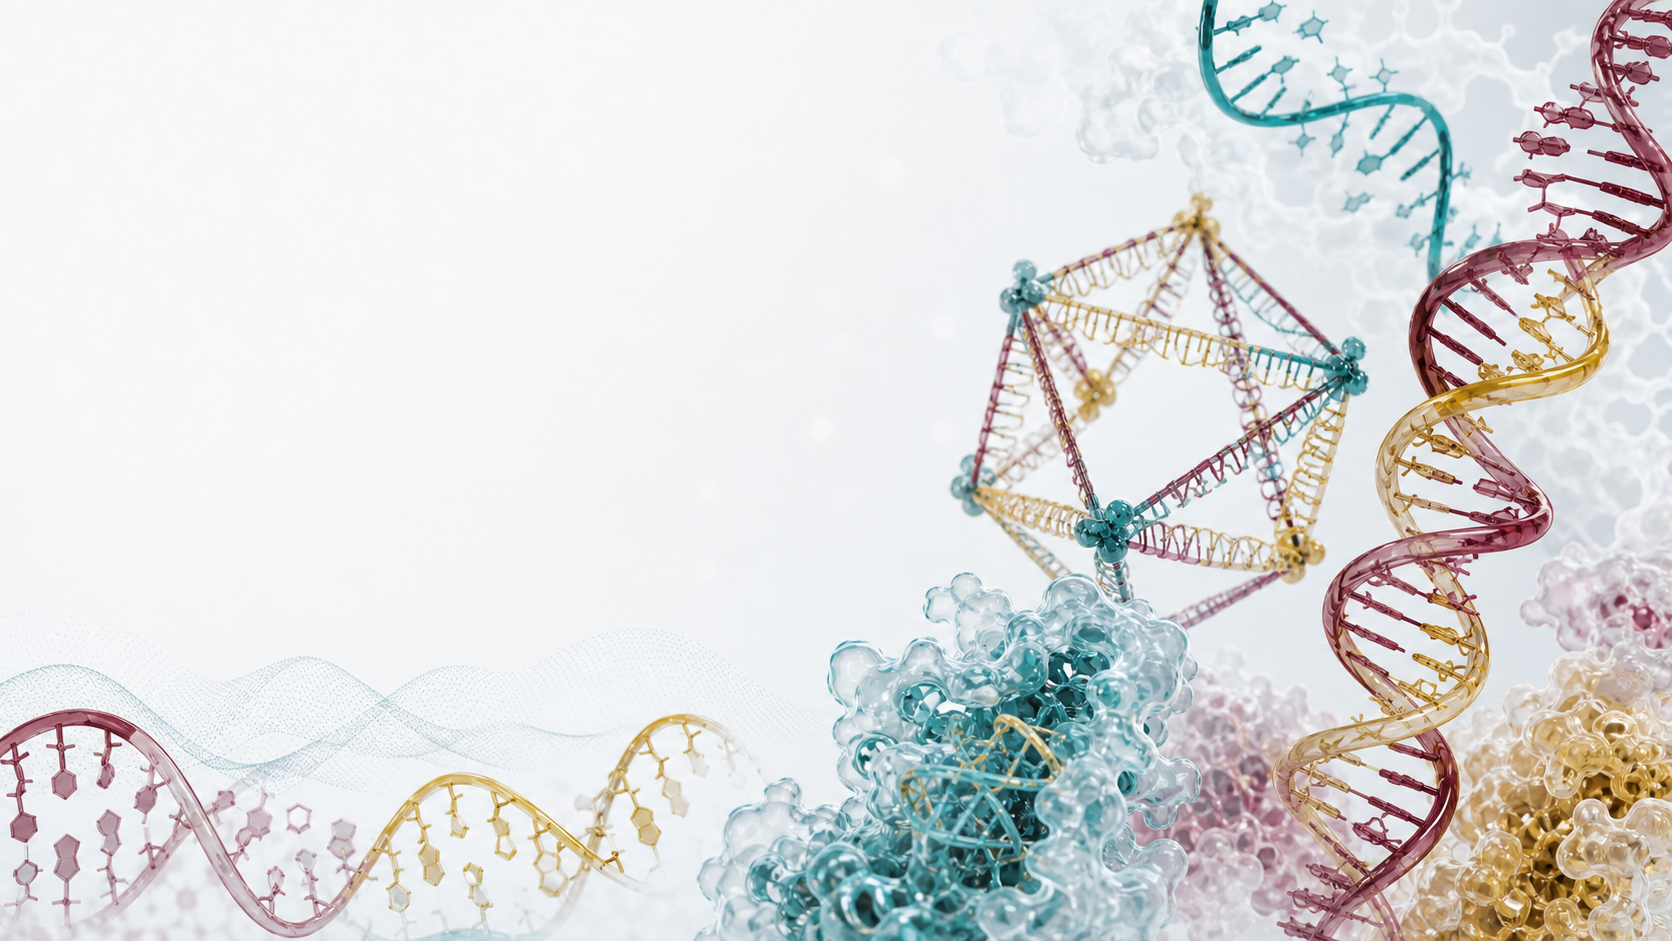
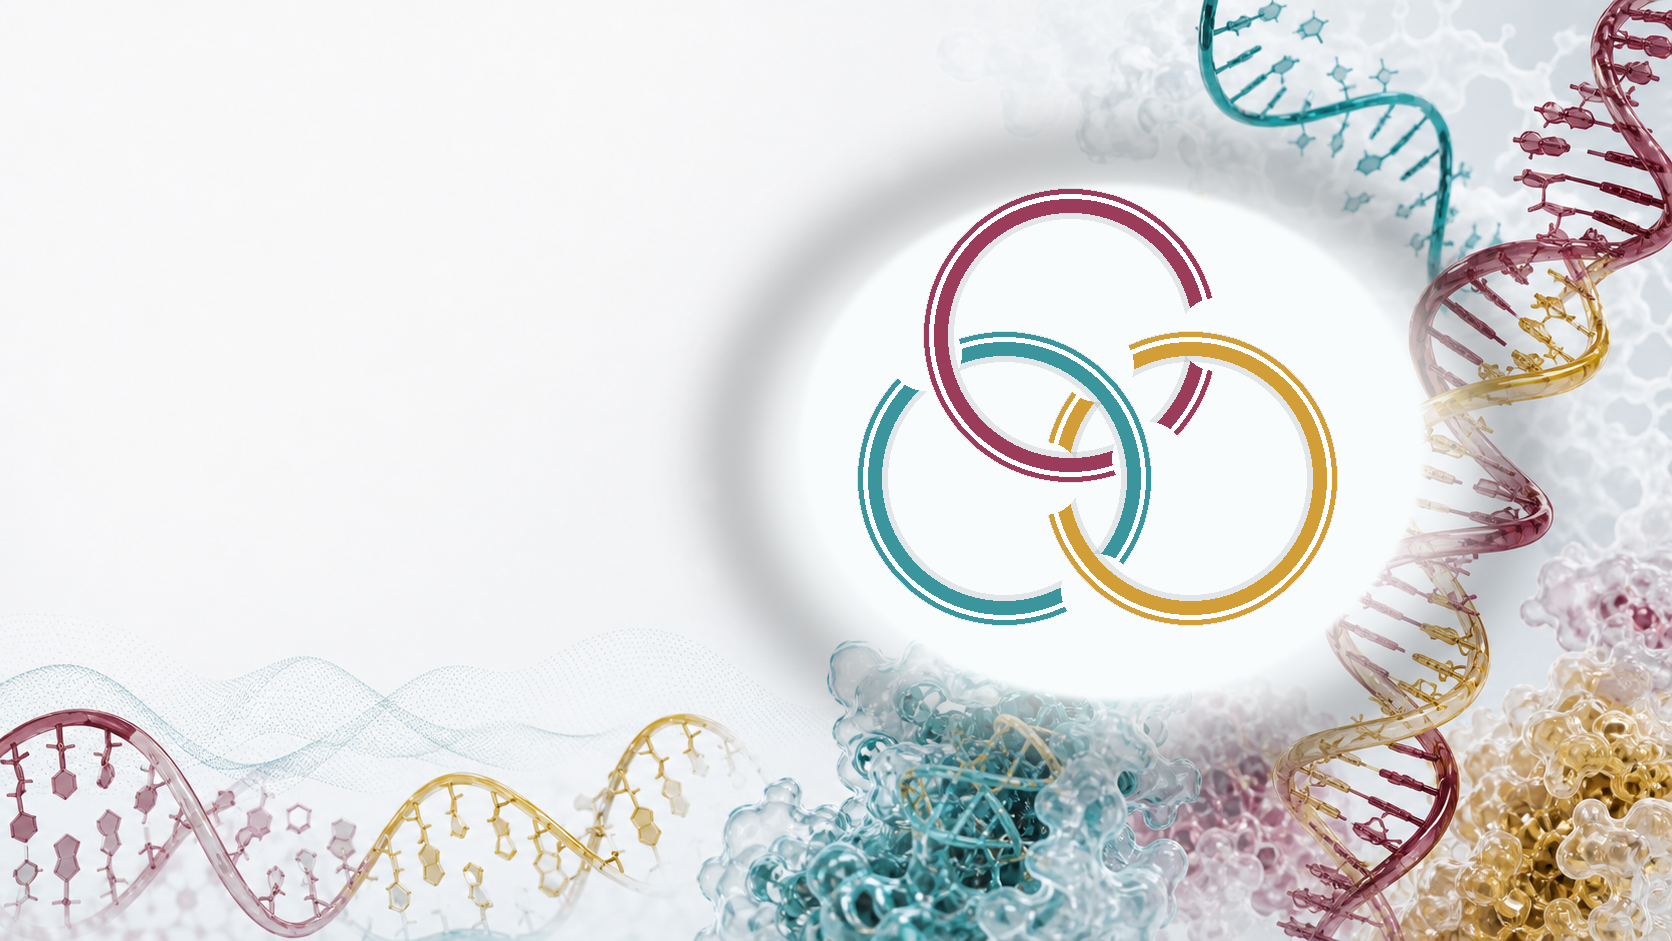
Add news page and Borromean rings hero

Changed region(s): [[0.4043, 0.1233, 0.933, 0.8629]]

diff --git a/styles.css b/styles.css
@@ -122,7 +122,7 @@ a {
 .nav-links {
   display: flex;
   align-items: center;
-  gap: 1.35rem;
+  gap: 1.05rem;
   color: var(--muted);
   font-size: 0.95rem;
 }
@@ -362,7 +362,7 @@ h3 {
 }
 
 .link-grid {
-  grid-template-columns: repeat(4, 1fr);
+  grid-template-columns: repeat(auto-fit, minmax(210px, 1fr));
 }
 
 .research-card,
@@ -551,11 +551,42 @@ h3 {
   padding: 1.25rem;
 }
 
-.news-grid time {
+.news-list {
+  width: min(900px, calc(100% - 2rem));
+  margin: 0 auto;
+  display: grid;
+  gap: 1rem;
+}
+
+.news-list article {
+  display: grid;
+  grid-template-columns: 150px 1fr;
+  gap: 1.4rem;
+  padding: 1.25rem;
+  border: 1px solid var(--line);
+  border-radius: var(--radius);
+  background: #fff;
+}
+
+.news-grid time,
+.news-list time {
   display: inline-block;
   margin-bottom: 0.8rem;
   color: var(--blue);
   font-weight: 900;
+}
+
+.news-list h3 {
+  margin-bottom: 0.35rem;
+}
+
+.news-list p {
+  margin-bottom: 0;
+  color: var(--muted);
+}
+
+.section-link {
+  margin-top: 1.5rem;
 }
 
 .course-list {
@@ -736,7 +767,8 @@ h3 {
   .pi-panel,
   .people-list li,
   .publication-list article,
-  .contact-card p {
+  .contact-card p,
+  .news-list article {
     grid-template-columns: 1fr;
   }
 

diff --git a/index.html b/index.html
@@ -36,6 +36,7 @@
           <a href="research.html">Research</a>
           <a href="people.html">People</a>
           <a href="publications.html">Publications</a>
+          <a href="news.html">News</a>
           <a href="opportunities.html">Join</a>
           <a href="contact.html">Contact</a>
         </div>
@@ -108,8 +109,13 @@
             <h3>Publications</h3>
             <p>Selected papers in RNA structure and nucleic acid nanotechnology.</p>
           </a>
-          <a class="summary-card" href="opportunities.html">
+          <a class="summary-card" href="news.html">
             <span class="card-index">04</span>
+            <h3>News</h3>
+            <p>Recent lab updates, people news, publications, and placeholders for future announcements.</p>
+          </a>
+          <a class="summary-card" href="opportunities.html">
+            <span class="card-index">05</span>
             <h3>Join</h3>
             <p>Openings and guidance for postdocs, graduate students, and undergraduates.</p>
           </a>
@@ -119,25 +125,26 @@
       <section class="section section-pad tinted">
         <div class="section-heading">
           <p class="eyebrow">Recent updates</p>
-          <h2>Lab notes</h2>
+          <h2>Latest news</h2>
         </div>
         <div class="news-grid">
           <article>
-            <time datetime="2026">2026</time>
+            <time datetime="2026-06">June 2026</time>
             <h3>Placeholder: lab milestone or award</h3>
             <p>Add a short update about publications, funding, student awards, or conference presentations.</p>
           </article>
           <article>
-            <time datetime="2025">2025</time>
+            <time datetime="2025-08">August 2025</time>
             <h3>New students join the lab</h3>
             <p>The group continues to grow with new graduate and undergraduate researchers.</p>
           </article>
           <article>
-            <time datetime="2024">2024</time>
+            <time datetime="2024-08">August 2024</time>
             <h3>Postdoctoral researchers join the team</h3>
             <p>Cong Li and Zhishang Li join the Liu Lab as postdoctoral researchers.</p>
           </article>
         </div>
+        <a class="text-link section-link" href="news.html">View all news</a>
       </section>
 
       <section class="contact-band section-pad">

diff --git a/contact.html b/contact.html
@@ -25,6 +25,7 @@
           <a href="research.html">Research</a>
           <a href="people.html">People</a>
           <a href="publications.html">Publications</a>
+          <a href="news.html">News</a>
           <a href="opportunities.html">Join</a>
           <a href="contact.html">Contact</a>
         </div>

diff --git a/people.html b/people.html
@@ -25,6 +25,7 @@
           <a href="research.html">Research</a>
           <a href="people.html">People</a>
           <a href="publications.html">Publications</a>
+          <a href="news.html">News</a>
           <a href="opportunities.html">Join</a>
           <a href="contact.html">Contact</a>
         </div>

diff --git a/publications.html b/publications.html
@@ -25,6 +25,7 @@
           <a href="research.html">Research</a>
           <a href="people.html">People</a>
           <a href="publications.html">Publications</a>
+          <a href="news.html">News</a>
           <a href="opportunities.html">Join</a>
           <a href="contact.html">Contact</a>
         </div>

diff --git a/research.html b/research.html
@@ -25,6 +25,7 @@
           <a href="research.html">Research</a>
           <a href="people.html">People</a>
           <a href="publications.html">Publications</a>
+          <a href="news.html">News</a>
           <a href="opportunities.html">Join</a>
           <a href="contact.html">Contact</a>
         </div>

diff --git a/README.md b/README.md
@@ -8,6 +8,7 @@ Static multi-page lab website for the Di Liu Lab at Arizona State University, th
 - `research.html`: research directions
 - `people.html`: lab members and PI profile links
 - `publications.html`: selected publications
+- `news.html`: lab news archive
 - `opportunities.html`: joining the lab
 - `contact.html`: contact, teaching, and external links
 